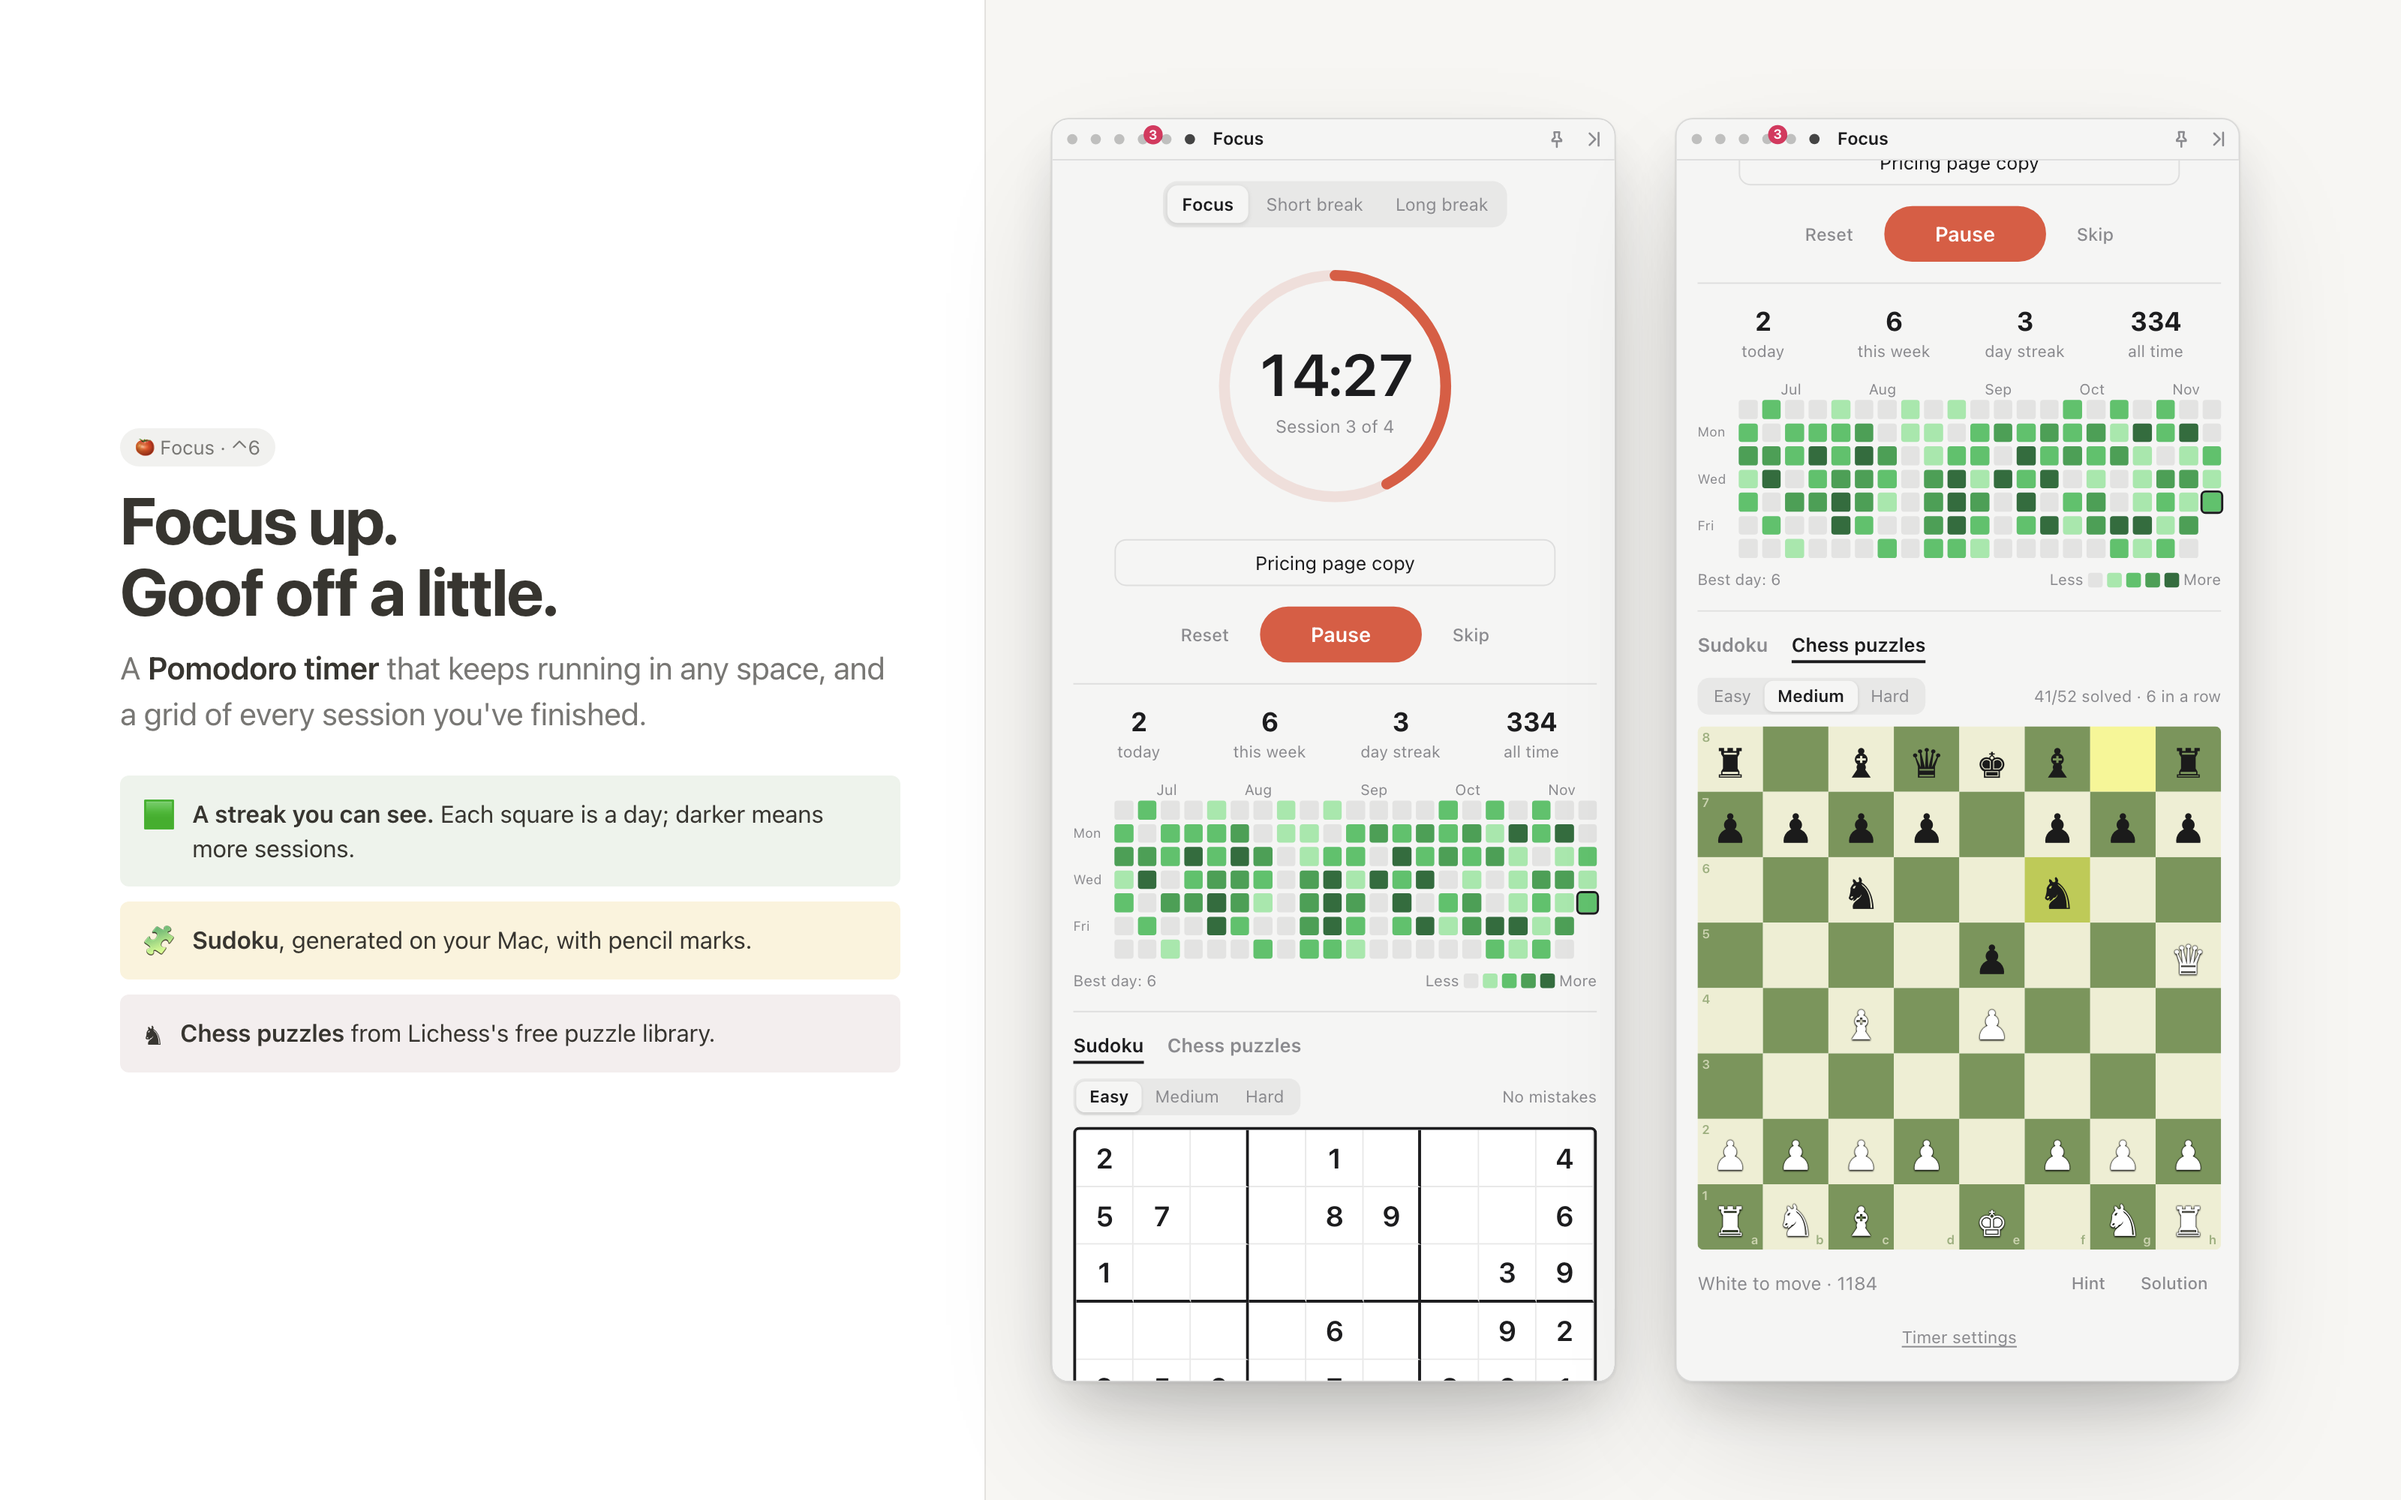
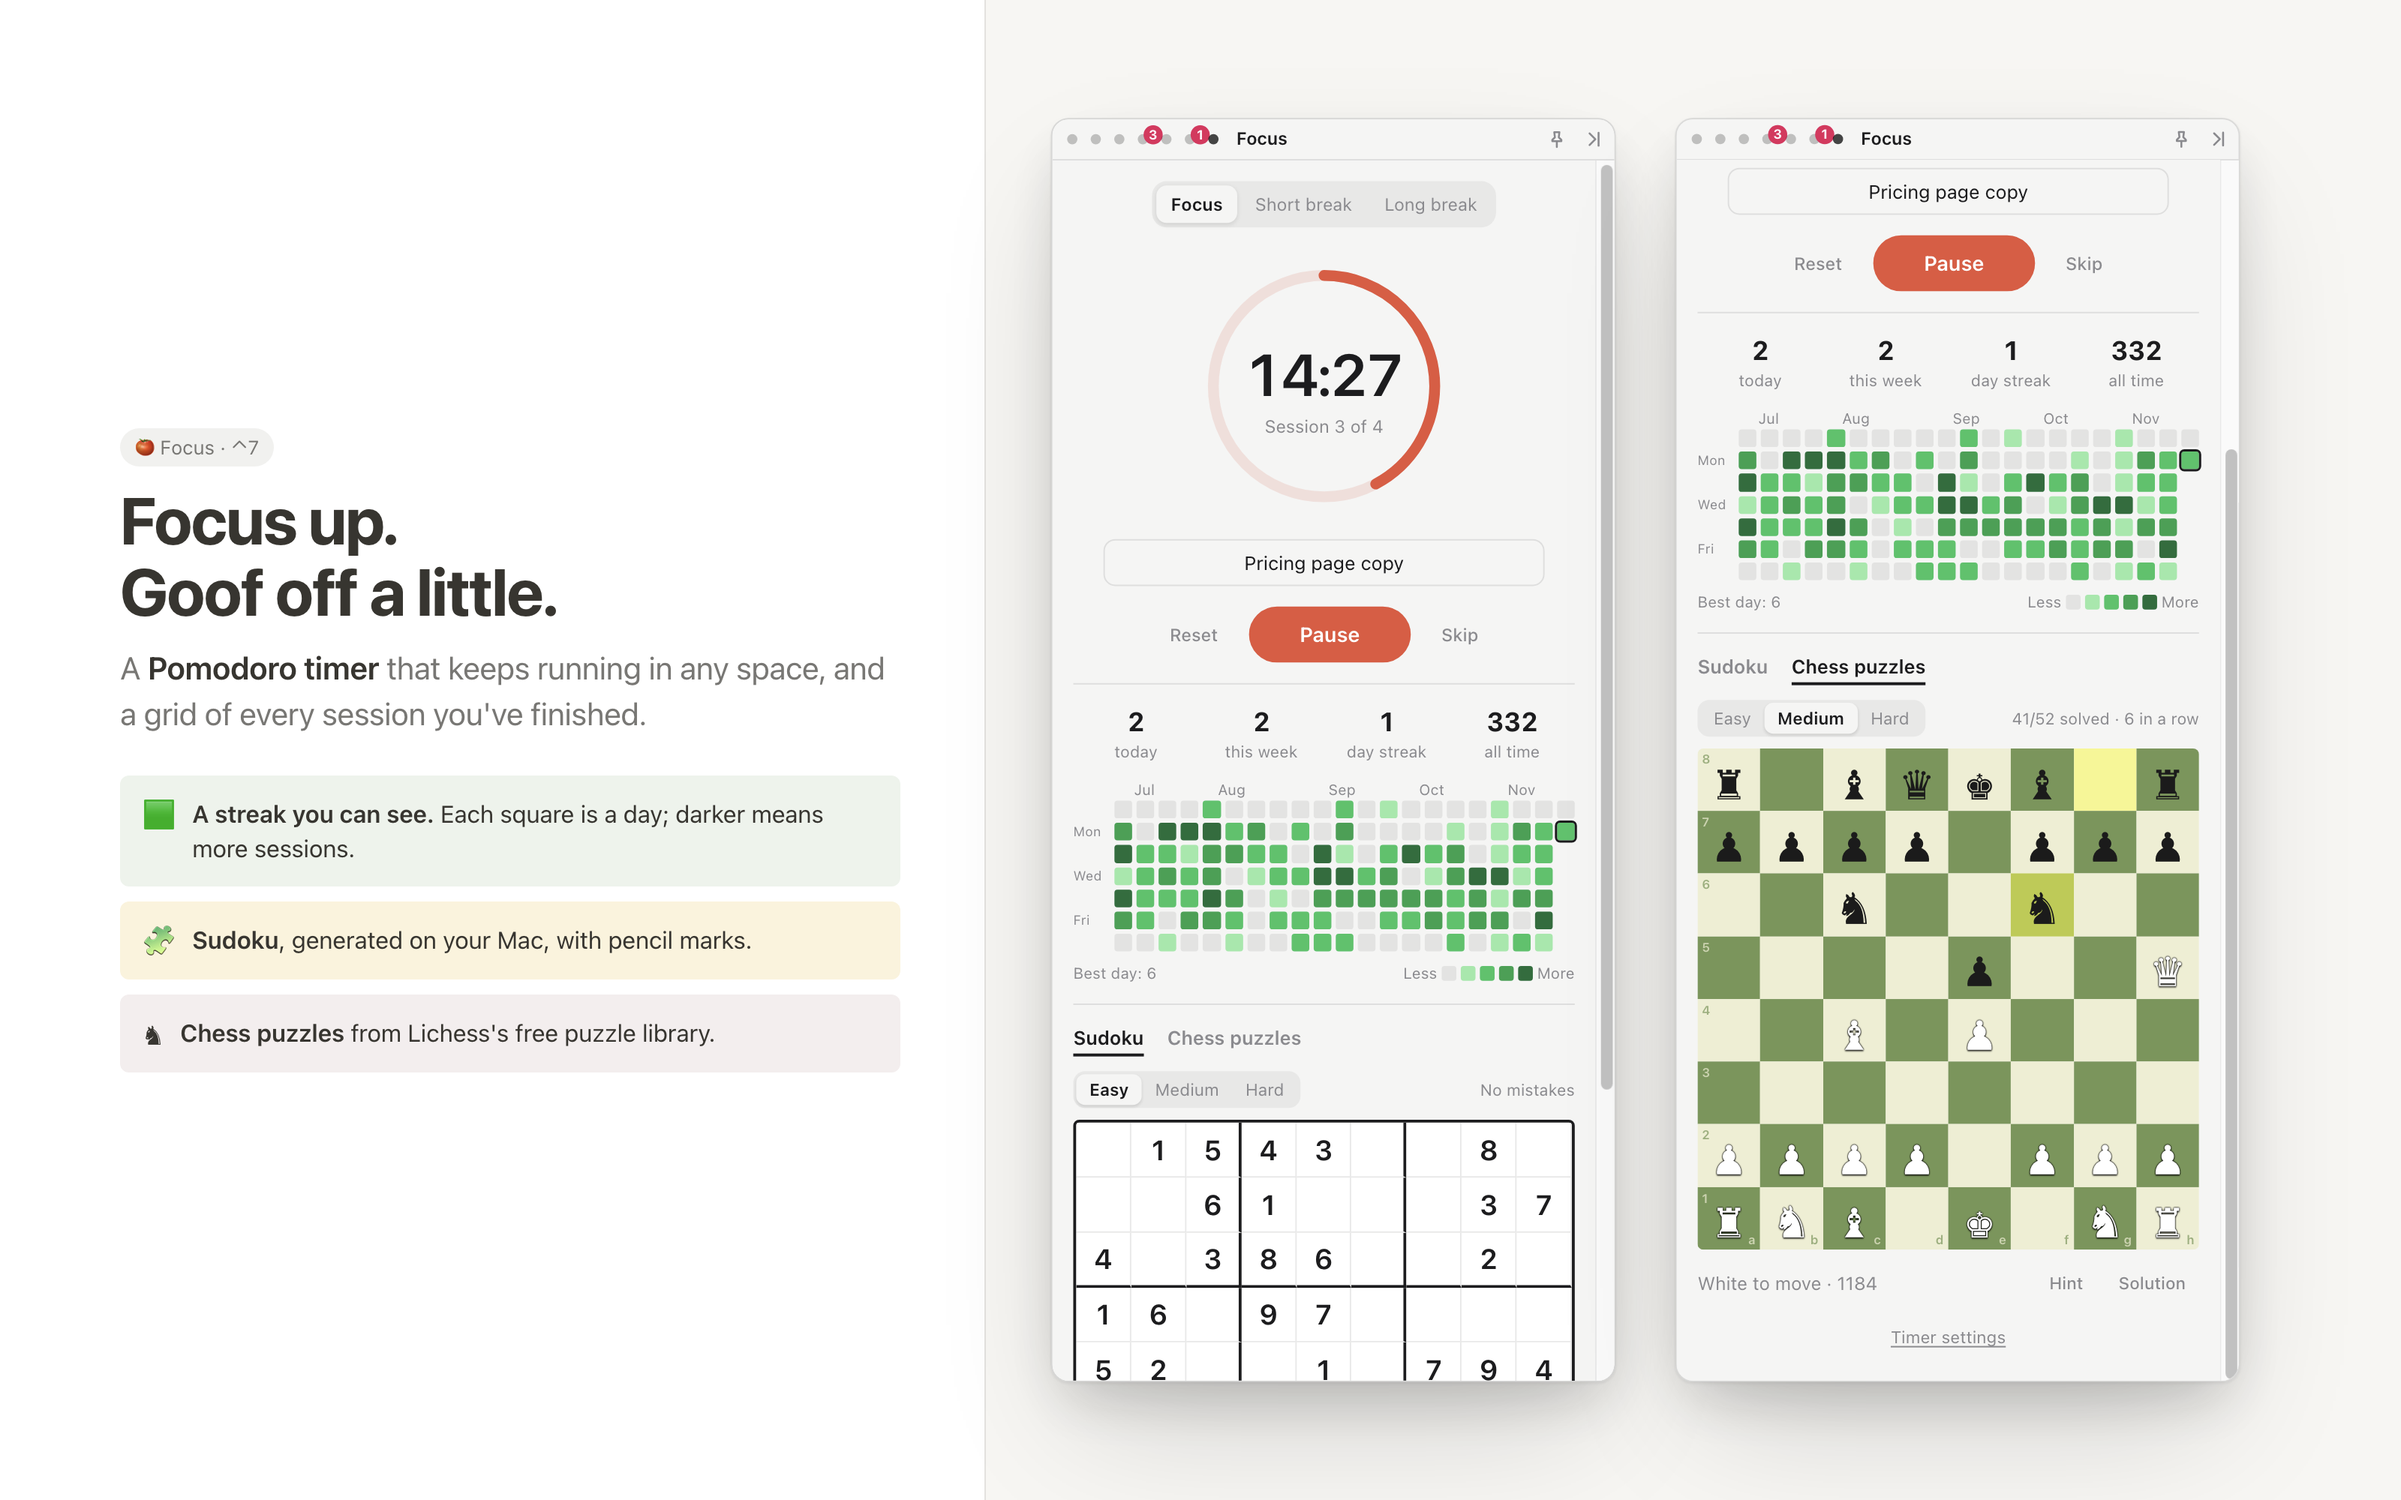
README: space wheel image
Adds docs/images/wheel.png (mouse and trackpad versions, with Agents in
the ring), fixes Focus's shortcut on its image (now ⌃7), and pins the
design server to 127.0.0.1.

diff --git a/docs/design/mock.ts b/docs/design/mock.ts
@@ -20,8 +20,8 @@ class FakeDate extends RealDate {
 
 const params = new URLSearchParams(location.search);
 export const SPACE = params.get('space') ?? 'calendar';
-const SPACES = ['claude', 'notion', 'meetings', 'slack', 'calendar', 'focus'];
-const NAMES: Record<string, string> = { claude: 'Claude', notion: 'Notion', meetings: 'Meetings', slack: 'Slack', calendar: 'Calendar', focus: 'Focus' };
+const SPACES = ['claude', 'notion', 'meetings', 'slack', 'calendar', 'agents', 'focus'];
+const NAMES: Record<string, string> = { claude: 'Claude', notion: 'Notion', meetings: 'Meetings', slack: 'Slack', calendar: 'Calendar', agents: 'Agents', focus: 'Focus' };
 
 const day = new Date(); day.setHours(0, 0, 0, 0);
 const at = (h: number, m = 0) => day.getTime() + (h * 60 + m) * 60000;
@@ -112,7 +112,7 @@ const liveSentences = [
 
 const ok = (data: unknown) => Promise.resolve({ ok: true, data });
 const state = {
-  spaces: SPACES.map((id) => ({ id, name: NAMES[id], badge: id === 'slack' ? 3 : 0 })),
+  spaces: SPACES.map((id) => ({ id, name: NAMES[id], badge: id === 'slack' ? 3 : id === 'agents' ? 1 : 0 })),
   active: SPACES.indexOf(SPACE),
   pinned: false,
   collapsed: 'none',
@@ -132,7 +132,7 @@ const state = {
   // &wheel=N shows the space wheel with slice N picked (&wheel=-1: none, &sticky=1: click mode)
   onWheel: (cb: (w: unknown) => void) => {
     const hover = Number(params.get('wheel'));
-    const a = -Math.PI / 2 + hover * (Math.PI / 3);
+    const a = -Math.PI / 2 + hover * ((2 * Math.PI) / SPACES.length);
     setTimeout(() => cb({
       open: true, cx: 192, cy: 440, r: 138, spaces: state.spaces, active: state.active, hover,
       px: hover >= 0 ? Math.round(60 * Math.cos(a)) : 0, py: hover >= 0 ? Math.round(60 * Math.sin(a)) : 0,

diff --git a/docs/design/shots/wheel.html b/docs/design/shots/wheel.html
@@ -1,0 +1,24 @@
+<!doctype html><html><head><meta charset="utf-8"><link rel="stylesheet" href="style.css"><link rel="stylesheet" href="feature.css"></head><body>
+<div class="canvas">
+  <div>
+    <span class="pill">🎯 Space wheel</span>
+    <h2 class="title">Hold. Nudge.<br>Let go.</h2>
+    <p class="lede">A ring of every space, like a ping wheel in a game. Pick by <b>direction</b>, not distance, so a small flick is enough.</p>
+    <div class="list">
+      <div class="callout bg-blue"><span class="ic">🎡</span><div><b>Mouse:</b> hold the scroll wheel down, nudge toward a space, let go. The last highlighted space opens.</div></div>
+      <div class="callout bg-purple"><span class="ic">⌥</span><div><b>Trackpad:</b> hold Option, glide your finger, let go of Option.</div></div>
+      <div class="callout bg-yellow"><span class="ic">👆</span><div><b>Quick click</b> keeps it open: click a slice to go there.</div></div>
+      <div class="callout bg-gray"><span class="ic">🔢</span><div><span class="kbd">1</span>–<span class="kbd">7</span> pick directly. <span class="kbd">Esc</span> or letting go in the middle cancels.</div></div>
+    </div>
+  </div>
+  <div class="stage sand dots-bg">
+    <div class="shot">
+      <div class="rail"><iframe src="../panel.html?space=notion&wheel=4"></iframe></div>
+      <div class="cap">🎡 Hold the scroll wheel</div>
+    </div>
+    <div class="shot">
+      <div class="rail"><iframe src="../panel.html?space=calendar&wheel=5&via=key"></iframe></div>
+      <div class="cap"><span class="kbd">⌥</span> Hold Option on a trackpad</div>
+    </div>
+  </div>
+</div></body></html>

diff --git a/docs/design/shots/focus.html b/docs/design/shots/focus.html
@@ -1,7 +1,7 @@
 <!doctype html><html><head><meta charset="utf-8"><link rel="stylesheet" href="style.css"><link rel="stylesheet" href="feature.css"></head><body>
 <div class="canvas">
   <div>
-    <span class="pill">🍅 Focus · ⌃6</span>
+    <span class="pill">🍅 Focus · ⌃7</span>
     <h2 class="title">Focus up.<br>Goof off a little.</h2>
     <p class="lede">A <b>Pomodoro timer</b> that keeps running in any space, and a grid of every session you've finished.</p>
     <div class="list">
@@ -12,6 +12,6 @@
   </div>
   <div class="stage sand dots-bg">
     <div class="rail"><iframe src="../panel.html?space=focus"></iframe></div>
-    <div class="rail"><iframe src="http://127.0.0.1:5181/panel.html?space=focus&game=chess&scroll=430"></iframe></div>
+    <div class="rail"><iframe src="http://localhost:5181/panel.html?space=focus&game=chess&scroll=430"></iframe></div>
   </div>
 </div></body></html>

diff --git a/docs/design/shots/feature.css b/docs/design/shots/feature.css
@@ -8,3 +8,6 @@
 .mac-menu div { padding: 5px 10px; border-radius: 5px; display: flex; flex-direction: column; }
 .mac-menu div small { color: #86868b; font-size: 11px; margin-top: 2px; }
 .mac-menu div.hi { background: #3b82f6; color: #fff; } .mac-menu div.hi small { color: rgba(255,255,255,.8); }
+.shot { display: flex; flex-direction: column; align-items: center; gap: 14px; }
+.shot .cap { display: flex; align-items: center; gap: 8px; font-size: 15px; color: var(--ink); font-weight: 500; }
+.shot .cap .kbd { font-size: 13px; }

diff --git a/README.md b/README.md
@@ -108,6 +108,8 @@ Rail isn't code-signed. If macOS blocks it the first time, right-click Rail in A
 
 ## 🎯 Space wheel
 
+<img src="docs/images/wheel.png" alt="The space wheel open over Notion (mouse) and over Calendar (trackpad, holding Option)" width="100%">
+
 Jump to any space without hunting for its dot, like a ping wheel in a game.
 
 - **Mouse:** hold the **middle button** (click the scroll wheel) anywhere on Rail. A ring of every space pops up. Nudge toward one and **let go**: the last highlighted space opens. It goes by direction, not distance, so a small flick is enough.
@@ -167,10 +169,10 @@ npx vite --config docs/design/vite.config.mts
 In a second terminal:
 
 ```bash
-TZ=America/New_York DESIGN_WAIT=6000 npx electron docs/design/render.cjs docs/images hero=shots/hero.html@1600x900 spaces=shots/spaces.html@1990x980 calendar=shots/calendar.html@1600x1000 meetings=shots/meetings.html@1600x1000 focus=shots/focus.html@1600x1000 notion=shots/notion.html@1600x1000
+TZ=America/New_York DESIGN_WAIT=6000 npx electron docs/design/render.cjs docs/images hero=shots/hero.html@1600x900 spaces=shots/spaces.html@1990x980 calendar=shots/calendar.html@1600x1000 meetings=shots/meetings.html@1600x1000 focus=shots/focus.html@1600x1000 notion=shots/notion.html@1600x1000 wheel=shots/wheel.html@1600x1000
 ```
 
-Open `http://localhost:5181/panel.html?space=calendar` (or `meetings`, `focus`, `notion`, `slack`, `claude`) to see a single panel.
+Open `http://127.0.0.1:5181/panel.html?space=calendar` (or `meetings`, `focus`, `notion`, `slack`, `claude`) to see a single panel.
 
 ### Debugging
 
